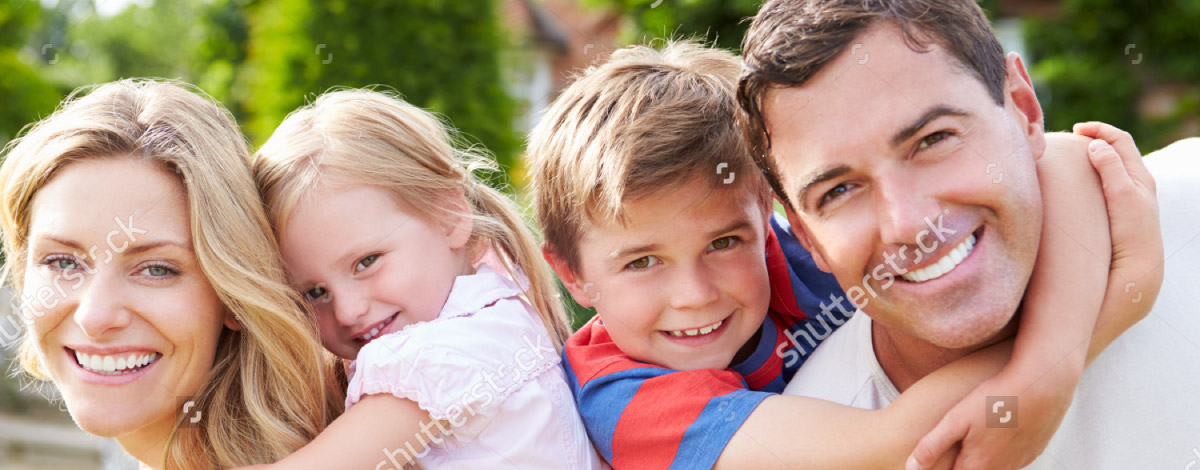
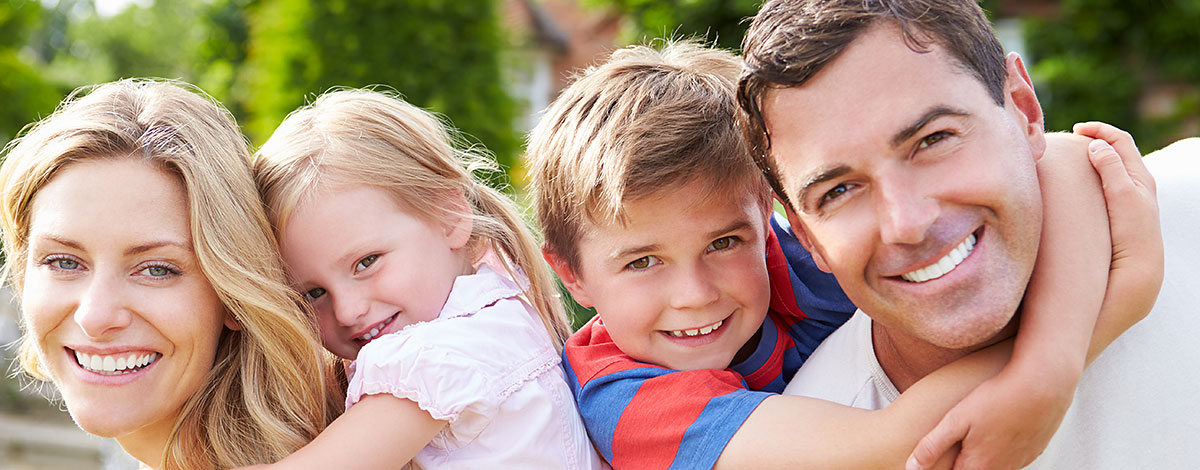
New jumbotron img, fixed margins

diff --git a/assets/styles/components/_sub-jumbotron.sass b/assets/styles/components/_sub-jumbotron.sass
@@ -1,8 +1,11 @@
 .sub-jumbotron
-  padding: $container-padding
   color: #FFFFFF
   background-color: $green
   text-align: center
+  padding: $base-spacing*1.5 $small-spacing
+
+  +breakpoint($medium)
+    padding: $container-padding
 
   p,
   h2

diff --git a/assets/styles/layouts/_pages.sass b/assets/styles/layouts/_pages.sass
@@ -4,4 +4,7 @@
 .content
   +clearfix
   background-color: #FFFFFF
-  padding: $container-padding
+  padding: $base-spacing $container-padding
+
+  +breakpoint($medium)
+    padding: $container-padding

diff --git a/assets/styles/views/_template-contact.sass b/assets/styles/views/_template-contact.sass
@@ -9,9 +9,10 @@
 
   .clinics
     +clearfix
-    margin-bottom: $base-spacing
 
     .clinic
+      margin-bottom: $base-spacing
+      
       +breakpoint($medium)
         +span(4 of 12)
 
